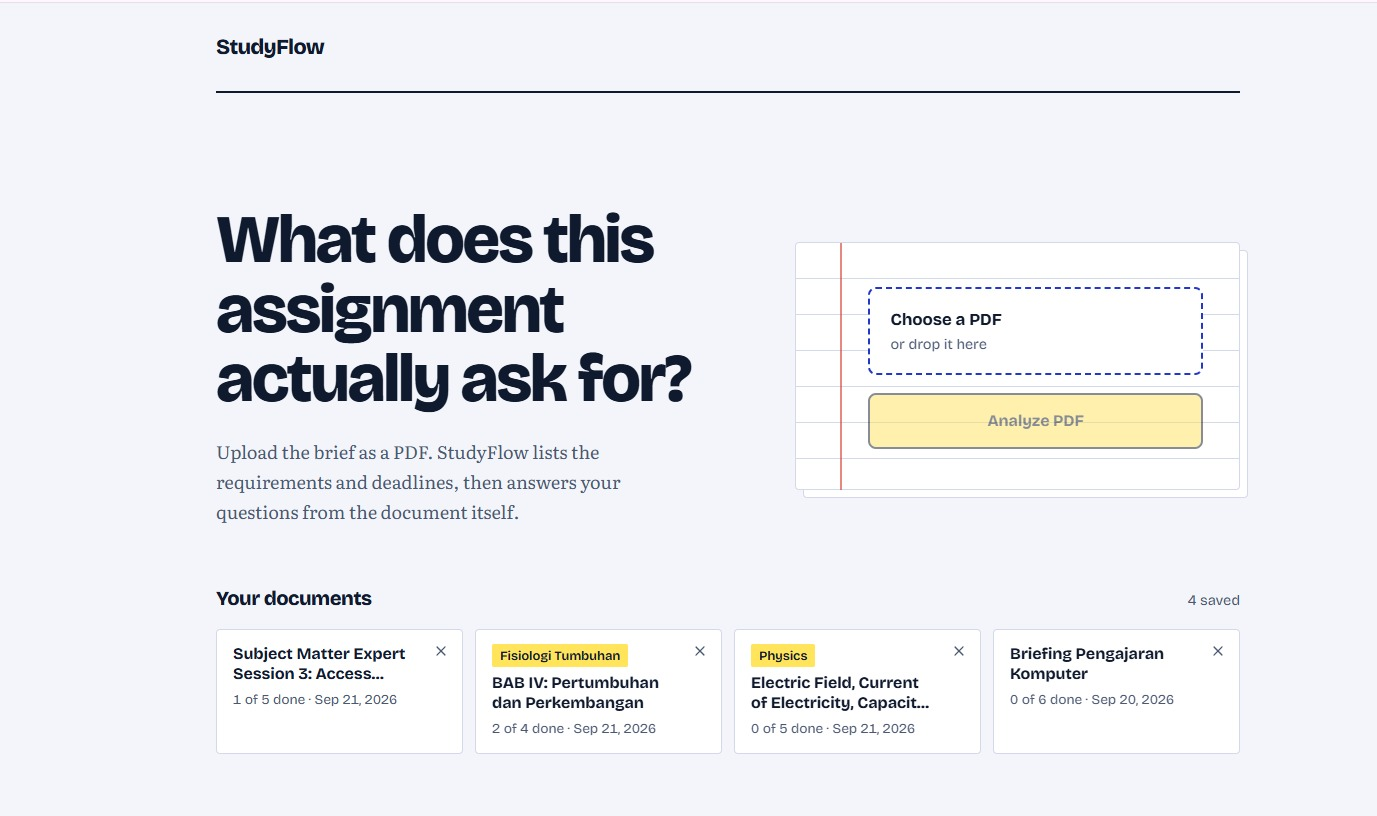
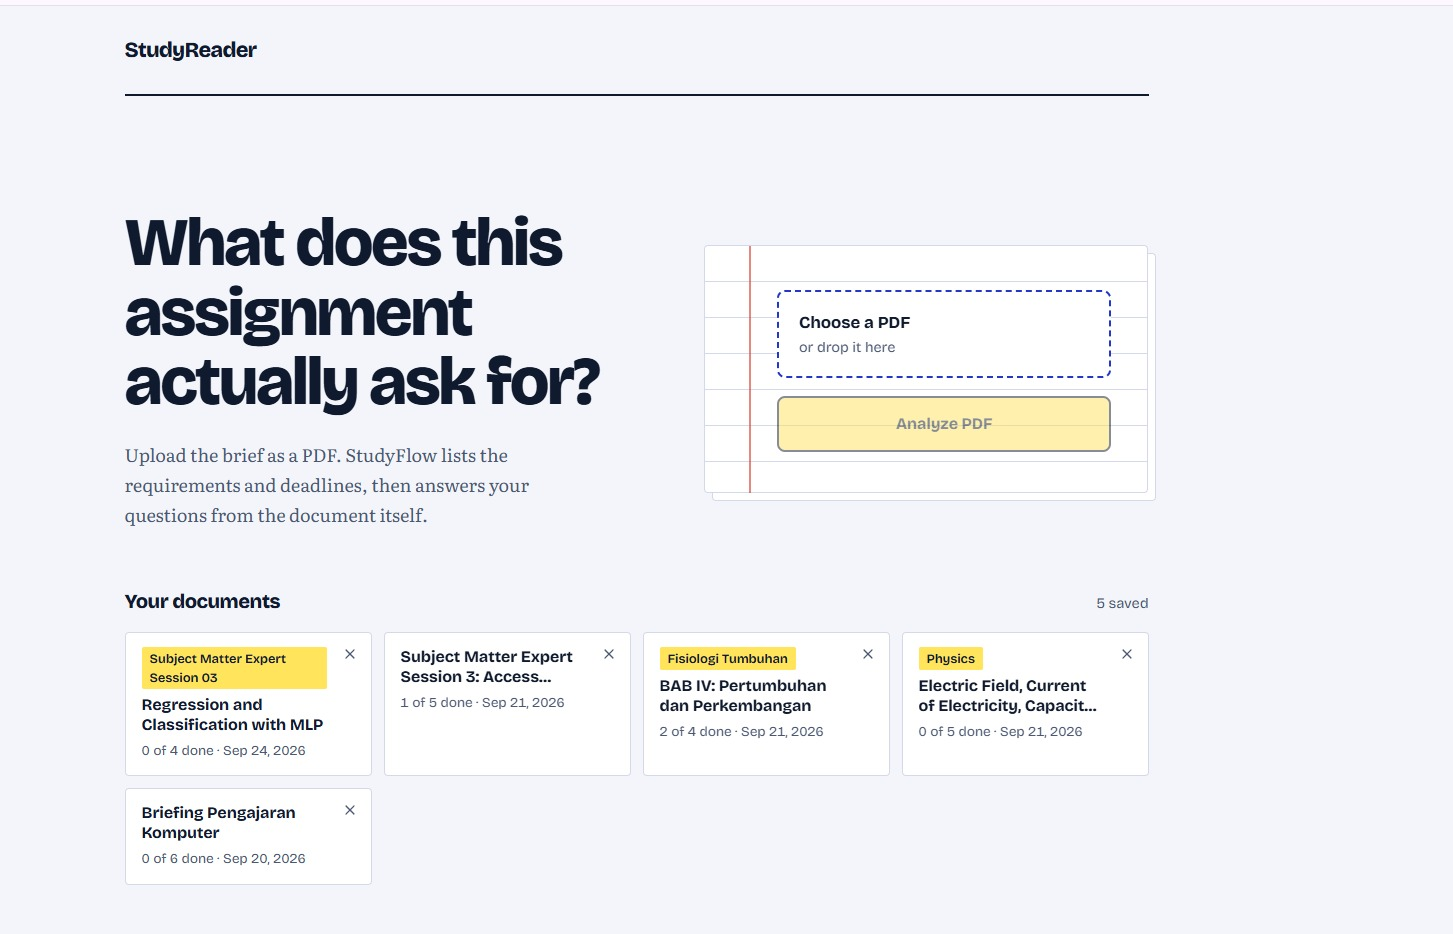
fixed some designs

diff --git a/src/styles.css b/src/styles.css
@@ -475,11 +475,22 @@ main {
   padding: 20px 18px 22px;
 }
 
+@keyframes terminal-blink {
+  0%,
+  100% {
+    opacity: 1;
+  }
+  50% {
+    opacity: 0.25;
+  }
+}
+
 .terminal-status {
   font-family: var(--display);
   font-size: 26px;
   color: var(--cyan);
   letter-spacing: 0.04em;
+  animation: terminal-blink 2.2s ease-in-out infinite;
 }
 
 .terminal-rule {
@@ -515,6 +526,7 @@ main {
   font-family: var(--mono);
   font-size: 12px;
   color: var(--cyan-soft);
+  animation: terminal-blink 2.2s ease-in-out infinite;
 }
 
 .down {
